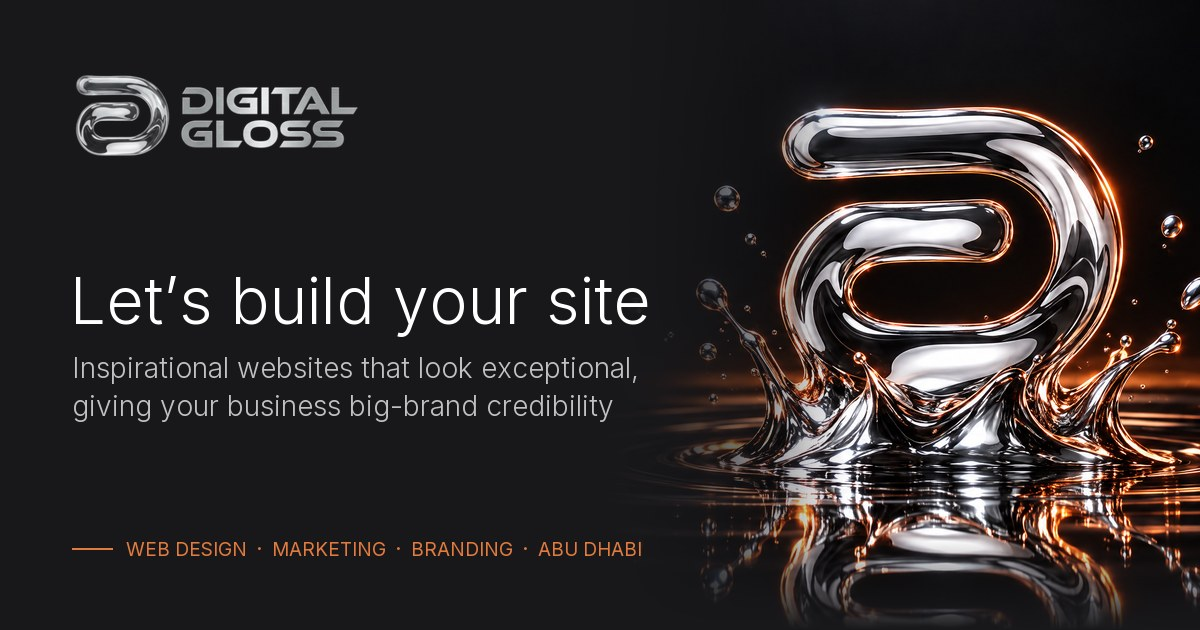
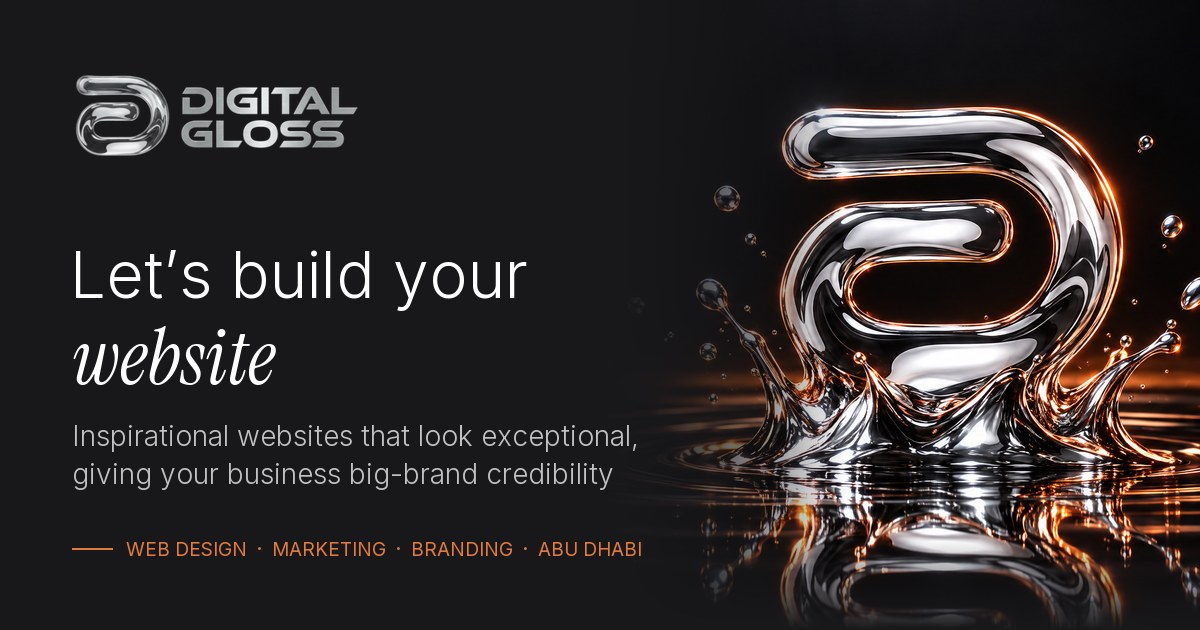
Hero refinements, serif headline accent and updated copy
- Hero label now "Website design and development"; location line removed
- Headline reads "Let's build your website" with an italic serif accent word
  (Instrument Serif, self-hosted via @fontsource); shimmer removed
- More space below the nav and above the buttons; hero image tucked up under
  the buttons, sized to fit the first screen, black background blended into
  the page
- Share title and share image updated to "website"
- "Our commitment" paragraph reworded (home and About)
- Marketing and Branding cards removed from the home services section

Changed region(s): [[0.0617, 0.3921, 0.555, 0.7841]]

diff --git a/css/styles.css b/css/styles.css
@@ -19,6 +19,11 @@
   src: url("../node_modules/@fontsource/inter/files/inter-latin-500-normal.woff2") format("woff2");
   unicode-range: U+0000-00FF, U+0131, U+0152-0153, U+02BB-02BC, U+02C6, U+02DA, U+02DC, U+0304, U+0308, U+0329, U+2000-206F, U+20AC, U+2122, U+2191, U+2193, U+2212, U+2215, U+FEFF, U+FFFD; }
 
+/* Instrument Serif italic: used only for the accent word in the home headline (latin only: it is a single English word) */
+@font-face { font-family: "Instrument Serif"; font-style: italic; font-weight: 400; font-display: swap;
+  src: url("../node_modules/@fontsource/instrument-serif/files/instrument-serif-latin-400-italic.woff2") format("woff2");
+  unicode-range: U+0000-00FF, U+0131, U+0152-0153, U+02BB-02BC, U+02C6, U+02DA, U+02DC, U+0304, U+0308, U+0329, U+2000-206F, U+20AC, U+2122, U+2191, U+2193, U+2212, U+2215, U+FEFF, U+FFFD; }
+
 /* ==========================================================================
    Digital Gloss — shared stylesheet
    Mobile-first. Every rule states the one-column phone case unqualified and
@@ -436,9 +441,11 @@ h1, h2, h3, h4 { font-weight: 300; }
 .hero__grid {
   flex: 1;
   display: grid; gap: 28px; align-content: center;
+  position: relative; z-index: 1; /* the copy and buttons stay above the image where its faded top tucks underneath */
 }
-/* studio photo: bottom centre of the hero, edges and top feathered into the page background */
-.hero__photo { display: block; width: min(98vw, 1320px); margin: 24px auto calc(-1 * 48px); position: relative; z-index: 0; }
+/* hero image: bottom centre of the hero, edges and top feathered into the page background */
+.hero__photo { display: block; width: min(98vw, 1320px); margin: 24px auto calc(-1 * 48px); position: relative; z-index: 0;
+  mix-blend-mode: lighten; /* the image's black background takes on the page colour, so no darker box shows around the splash */ }
 .hero__photo img { display: block; width: 100%; height: auto;
   -webkit-mask-image: linear-gradient(to bottom, transparent, #000 22%, #000 78%, transparent), linear-gradient(to right, transparent, #000 12%, #000 88%, transparent);
   -webkit-mask-composite: source-in; mask-image: linear-gradient(to bottom, transparent, #000 22%, #000 78%, transparent), linear-gradient(to right, transparent, #000 12%, #000 88%, transparent); mask-composite: intersect; }
@@ -462,14 +469,8 @@ h1, h2, h3, h4 { font-weight: 300; }
 /* tablet and up: the first line is the statement, the second a smaller, quieter line beneath it */
 @media (min-width: 768px) { .hero__title .muted { font-size: .5em; line-height: 1.35; margin-top: .45em; } }
 
-/* "High performance": stays white like the rest of the headline; a soft copper sheen sweeps across the words every few seconds */
-.gloss-word {
-  background: linear-gradient(100deg, #fff 0%, #fff 38%, #F2B48A 50%, #fff 62%, #fff 100%) 100% 0 / 250% 100% no-repeat;
-  -webkit-background-clip: text; background-clip: text;
-  -webkit-text-fill-color: transparent; color: transparent;
-  animation: gloss-shimmer 5s ease-in-out 2s infinite;
-}
-@keyframes gloss-shimmer { 0%, 55% { background-position: 100% 0; } 100% { background-position: 0 0; } }
+/* the accent word in the headline: an elegant italic serif, set a little larger because serifs run small beside the sans */
+.gloss-word { font-family: "Instrument Serif", Georgia, "Times New Roman", serif; font-style: italic; font-weight: 400; font-size: 1.2em; line-height: .8; padding-right: .05em; }
 
 /* ---- Hero entrance: the beam draws out from the centre, then the headline eases in from a faint blur and the copy
    fades in behind it, one piece after another. No sliding. Plays once on load; skipped for reduced-motion visitors
@@ -482,9 +483,7 @@ h1, h2, h3, h4 { font-weight: 300; }
   html:not(.no-js) .hero__title .line:nth-child(1) .line__in { animation-delay: .3s; }
   html:not(.no-js) .hero__title .line:nth-child(2) .line__in { animation-delay: .4s; }
   html:not(.no-js) .hero__lede { animation: hero-fade .65s cubic-bezier(.33, 0, .2, 1) .65s both; }
-  html:not(.no-js) .hero__actions { animation: hero-fade .65s cubic-bezier(.33, 0, .2, 1) .75s both; }
-  html:not(.no-js) .hero__location { animation: hero-fade .65s cubic-bezier(.33, 0, .2, 1) .85s both; } /* last in, just after the buttons */
-}
+  html:not(.no-js) .hero__actions { animation: hero-fade .65s cubic-bezier(.33, 0, .2, 1) .75s both; }}
 @keyframes hero-fade { from { opacity: 0; } to { opacity: 1; } }
 @keyframes hero-focus { from { opacity: 0; filter: blur(4px); } to { opacity: 1; filter: blur(0); } }
 @keyframes hero-rule { from { clip-path: inset(0 50% 0 50%); } to { clip-path: inset(0 0 0 0); } }
@@ -492,9 +491,7 @@ h1, h2, h3, h4 { font-weight: 300; }
 .hero__side { display: grid; gap: 28px; }
 .hero__lede { max-width: 34em; color: var(--c-primary); text-wrap: balance; } /* balanced lines, so no single word is left alone on the last one */
 .hero__actions { display: flex; flex-wrap: wrap; gap: 14px; }
-.hero__actions .btn { flex: 1 1 180px; }
-.hero__location { font-size: 12px; line-height: 18px; margin-top: 2px; } /* a quiet sign-off under the buttons */
-@media (min-width: 961px) {
+.hero__actions .btn { flex: 1 1 180px; }@media (min-width: 961px) {
   .hero { --hero-fs: clamp(44px, 5.4vw, 84px); }
   .hero__title.display { font-size: var(--hero-fs); line-height: 1.1; }
   .hero__actions .btn { flex: 0 0 auto; min-width: 176px; }
@@ -535,7 +532,7 @@ h1, h2, h3, h4 { font-weight: 300; }
 }
 /* hero copy centred on the page (tablet and up): wider headline box, intro and buttons beneath it on the same centre line */
 @media (min-width: 768px) {
-  .hero__grid { grid-template-columns: minmax(0, 1fr); grid-template-areas: "head" "side"; justify-items: center; text-align: center; align-content: start; gap: 22px 0; }
+  .hero__grid { grid-template-columns: minmax(0, 1fr); grid-template-areas: "head" "side"; justify-items: center; text-align: center; align-content: start; gap: 36px 0; } /* a clear step down from the headline to the buttons */
   .hero__head { width: min(100%, calc(var(--hero-fs, 40px) * 27)); }
   .hero__eyebrow { text-align: center; }
   .hero__eyebrow::after { left: 50%; transform: translate(-50%, 50%); }
@@ -1268,7 +1265,6 @@ a.contact-item:hover { border-color: var(--c-primary); }
   *, *::before, *::after { animation-duration: .001ms !important; animation-iteration-count: 1 !important; transition-duration: .001ms !important; }
   .reveal { opacity: 1; transform: none; }
   .site-footer.reveal--fade > .container { transform: none; }
-  .gloss-word { animation: none; background: none; -webkit-text-fill-color: currentColor; color: var(--c-on-surface); }
 }
 
 /* --------------------------------------------------------------------------
@@ -1611,8 +1607,9 @@ a.contact-item:hover { border-color: var(--c-primary); }
 }
 /* phones: a more compact hero */
 @media (max-width: 767px) {
-  .hero { min-height: 0; padding-top: calc(var(--header-h) + 28px); padding-bottom: 32px; }
-  .hero__grid, .hero__side { gap: 20px; }
+  .hero { min-height: 0; padding-top: calc(var(--header-h) + 44px); padding-bottom: 32px; }
+  .hero__grid { gap: 28px; } /* a clear step down from the headline to the buttons */
+  .hero__side { gap: 20px; }
   .hero__eyebrow { padding-bottom: 20px; margin-bottom: 20px; }
   .hero__title .muted { font-size: .62em; line-height: 1.3; margin-top: .35em; } /* the second line becomes a quieter sub-line, as on larger screens */
   .hero__photo { margin-top: 12px; }
@@ -1784,7 +1781,7 @@ a.contact-item:hover { border-color: var(--c-primary); }
 @media (min-width: 768px) and (max-width: 960px) {
   :root { --section-y: 60px; }
   .section-head { margin-bottom: 32px; }
-  .hero { min-height: 0; padding-top: calc(var(--header-h) + 40px); padding-bottom: 40px; } /* the hero sizes to its content rather than the full screen */
+  .hero { min-height: 0; padding-top: calc(var(--header-h) + 56px); padding-bottom: 40px; } /* the hero sizes to its content rather than the full screen */
   /* type */
   .label { font-size: 12px; line-height: 18px; }
   .display { font-size: 42px; line-height: 50px; }
@@ -2588,8 +2585,15 @@ a.contact-item:hover { border-color: var(--c-primary); }
 }
 /* desktop (961px+): home page, tighter */
 @media (min-width: 961px) {
-  .hero { padding-top: calc(var(--header-h) + 32px); }
-  .hero__photo { width: min(94vw, 1160px); margin-top: 16px; }
+  .hero { padding-top: calc(var(--header-h) + 56px); }
+  /* the image shrinks on shorter screens so the whole D and splash fit above the fold, and tucks its empty,
+     faded top up under the buttons so the D sits close beneath them */
+  .hero__grid { flex: none; } /* copy keeps its natural height, so on tall screens the image follows it instead of being pushed down */
+  .hero__photo {
+    --photo-w: min(94vw, 1320px, (100vh - 150px) * 1.6);
+    width: var(--photo-w);
+    margin-top: calc(var(--photo-w) * -0.075);
+  }
   .marquee { padding-block: clamp(10px, 1.4vw, 18px); }
   .marquee__list li { font-size: clamp(32px, 4.2vw, 60px); }
   .industry-grid { height: 380px; }

diff --git a/index.html b/index.html
@@ -6,14 +6,14 @@
   <title>Digital Gloss — Websites, Marketing &amp; Branding in Abu Dhabi</title>
   <meta name="description" content="Digital Gloss creates bespoke websites, marketing and branding for start-ups, small businesses and independent consultants — explained in plain English. Based in Abu Dhabi, serving the UAE and worldwide.">
   <meta name="theme-color" content="#18181B">
-  <meta property="og:title" content="Digital Gloss — Let’s build your site. Inspirational websites that look exceptional.">
+  <meta property="og:title" content="Digital Gloss — Let’s build your website. Inspirational websites that look exceptional.">
   <meta property="og:description" content="Bespoke websites, marketing and branding for start-ups, small businesses, and independent consultants.">
   <meta property="og:type" content="website">
   <meta property="og:url" content="https://digital-gloss.com/">
   <meta property="og:image" content="https://digital-gloss.com/Images/og-share.jpg">
   <meta property="og:image:width" content="1200">
   <meta property="og:image:height" content="630">
-  <meta property="og:image:alt" content="Digital Gloss: Let’s build your site. A liquid chrome splash rising into the Digital Gloss D mark.">
+  <meta property="og:image:alt" content="Digital Gloss: Let’s build your website. A liquid chrome splash rising into the Digital Gloss D mark.">
   <meta name="twitter:card" content="summary_large_image">
   <link rel="icon" href="/favicon.ico" sizes="48x48">
   <link rel="apple-touch-icon" href="/apple-touch-icon.png">
@@ -113,9 +113,9 @@
 
       <div class="container hero__grid">
         <div class="hero__head">
-          <p class="hero__eyebrow label">Web design, marketing and branding</p>
+          <p class="hero__eyebrow label">Website design and development</p>
           <h1 class="display hero__title" id="hero-title">
-            <span class="line"><span class="line__in">Let’s build your <span class="gloss-word">site</span></span></span>
+            <span class="line"><span class="line__in">Let’s build your <span class="gloss-word">website</span></span></span>
             <span class="line muted"><span class="line__in">Inspirational websites that look exceptional — giving your business big-brand credibility</span></span>
           </h1>
         </div>
@@ -125,9 +125,7 @@
               <svg viewBox="0 0 16 16" fill="none" stroke="currentColor" stroke-width="1.4" aria-hidden="true"><path d="M2 8h11M9 4l4 4-4 4"/></svg>
             </a>
             <a class="btn btn-secondary" href="#services">Explore services</a>
-          </div>
-          <p class="hero__location label">Abu Dhabi-based, partnering with businesses worldwide</p>
-        </div>
+          </div>        </div>
 
       </div>
 
@@ -152,7 +150,7 @@
         <div class="about__copy reveal">
           <p class="label label--dot">Customer focused</p>
           <h2 class="headline-lg" id="teaser-title">Our commitment</h2>
-          <p class="body-lg">Whether you’re new to websites or online marketing, we’ll make building your online presence simple. We provide clear and professional guidance without all the technical terminology.</p>
+          <p class="body-lg">Digital Gloss provide clear and professional guidance without all the technical terminology. We believe that building your online presence should be an exciting experience causing minimal disruption to you.</p>
           <a class="btn btn-secondary" href="about.html">About us</a>
         </div>
         <div class="translator reveal" data-mode="plain" aria-labelledby="translator-title">
@@ -204,36 +202,6 @@
                 <p>Your website is often the first impression of your business. By understanding your market and competition, we make working with you easier and help you more confidently shape the magic that comes next.</p>
               </div>
               <a class="link-ring" href="services.html#web-development"><span class="link-ring__label">Explore services</span><span class="link-ring__icon" aria-hidden="true"><svg viewBox="0 0 16 16" fill="none" stroke="currentColor" stroke-width="1.4"><path d="M2 8h11M9 4l4 4-4 4"/></svg></span></a>
-            </div>
-          </article>
-
-          <article class="service service--centered card-lux reveal reveal--up" id="marketing" aria-labelledby="svc-mkt">
-            <div class="service__head"><h3 class="headline-md" id="svc-mkt">Digital <br>Marketing</h3></div>
-            <picture class="service__photo">
-              <source type="image/avif" srcset="Images/marketing-photo-720.avif 720w, Images/marketing-photo-1200.avif 1200w" sizes="(min-width: 961px) 30vw, (min-width: 601px) 45vw, 90vw">
-              <source type="image/webp" srcset="Images/marketing-photo-720.webp 720w, Images/marketing-photo-1200.webp 1200w" sizes="(min-width: 961px) 30vw, (min-width: 601px) 45vw, 90vw">
-              <img src="Images/marketing-photo-1200.webp" alt="A hand placing a sticky note on a social media content calendar on a wooden desk, with sketched post layouts, a phone showing a photo feed and a laptop with a posting schedule" width="1200" height="679" loading="lazy" decoding="async">
-            </picture>
-            <div class="service__more">
-              <div class="service__text">
-                <p>Online marketing puts your brand in front of prospective buyers. A clear strategy focuses your efforts and supports growth. We create audience-focused content from planning and research through production and optimisation.</p>
-              </div>
-              <a class="link-ring" href="services.html#marketing"><span class="link-ring__label">Explore services</span><span class="link-ring__icon" aria-hidden="true"><svg viewBox="0 0 16 16" fill="none" stroke="currentColor" stroke-width="1.4"><path d="M2 8h11M9 4l4 4-4 4"/></svg></span></a>
-            </div>
-          </article>
-
-          <article class="service service--centered card-lux reveal reveal--up" id="branding" aria-labelledby="svc-brand">
-            <div class="service__head"><h3 class="headline-md" id="svc-brand">Branding</h3></div>
-            <picture class="service__photo">
-              <source type="image/avif" srcset="Images/branding-photo-720.avif 720w, Images/branding-photo-1200.avif 1200w" sizes="(min-width: 961px) 30vw, (min-width: 601px) 45vw, 90vw">
-              <source type="image/webp" srcset="Images/branding-photo-720.webp 720w, Images/branding-photo-1200.webp 1200w" sizes="(min-width: 961px) 30vw, (min-width: 601px) 45vw, 90vw">
-              <img src="Images/branding-photo-1200.webp" alt="A hand holding a dark business card with a copper mark over a wooden desk of logo sketches, colour swatches, a typeface specimen and letterhead" width="1200" height="679" loading="lazy" decoding="async">
-            </picture>
-            <div class="service__more">
-              <div class="service__text">
-                <p>We unite your logo, colours, typography, image, and voice into one clear brand story. The results build trust, stand out, and resonate with the right customers. Whether new or established, your brand will feel authentic, polished and ready to grow.</p>
-              </div>
-              <a class="link-ring" href="services.html#branding"><span class="link-ring__label">Explore services</span><span class="link-ring__icon" aria-hidden="true"><svg viewBox="0 0 16 16" fill="none" stroke="currentColor" stroke-width="1.4"><path d="M2 8h11M9 4l4 4-4 4"/></svg></span></a>
             </div>
           </article>
         </div>

diff --git a/about.html b/about.html
@@ -178,7 +178,7 @@
         <div class="about__copy reveal">
           <p class="label label--dot">Customer focused</p>
           <h2 class="headline-lg" id="about-title">Our commitment</h2>
-          <p class="body-lg">Whether you’re new to websites or online marketing, we’ll make building your online presence simple. We provide clear and professional guidance without all the technical terminology.</p>
+          <p class="body-lg">Digital Gloss provide clear and professional guidance without all the technical terminology. We believe that building your online presence should be an exciting experience causing minimal disruption to you.</p>
           <ul class="values">
             <li class="reveal reveal--left"><h3>Listen</h3><p>Our first no-obligation discussion involves getting to know your business, goals and audience. Every project is tailored to our client’s needs.</p></li>
             <li class="reveal reveal--left"><h3>Communication</h3><p>It’s important that you always know what is happening. We make sure that we communicate clearly and often with you.</p></li>
